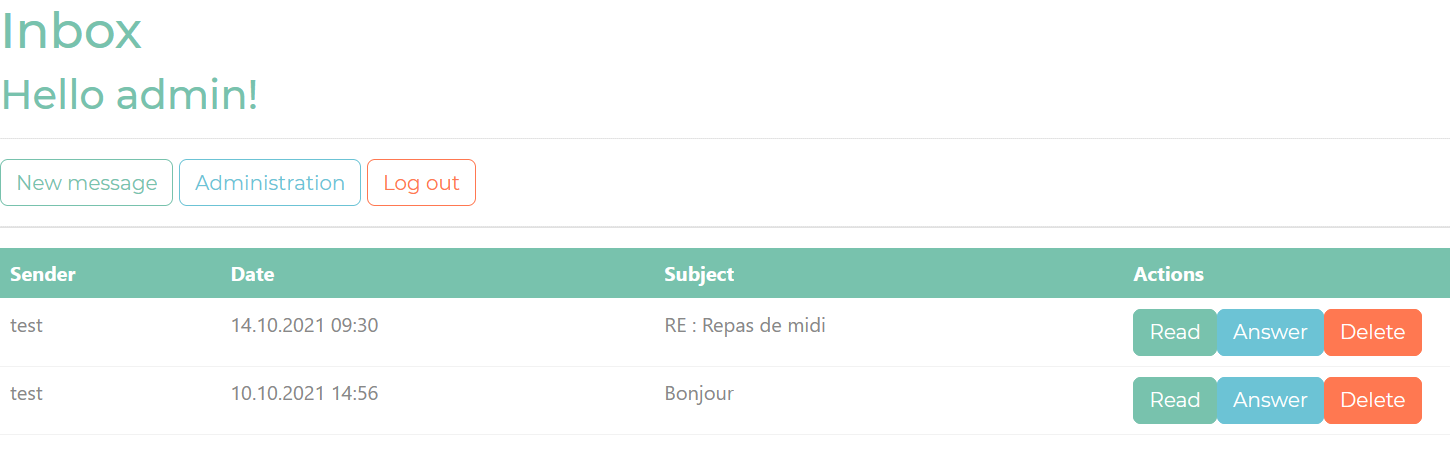
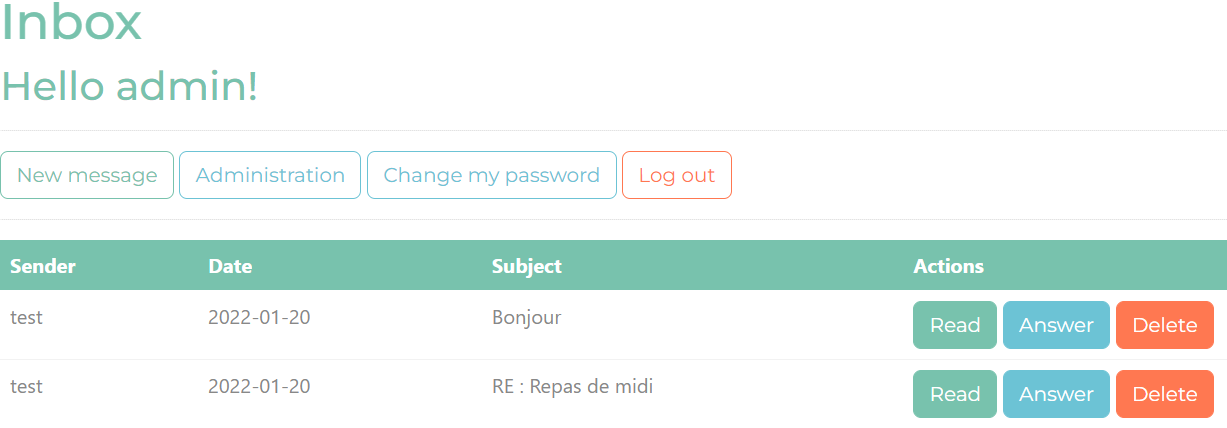
Update Readme projet 2

diff --git a/README.md b/README.md
@@ -1,12 +1,17 @@
-# STI - Projet 1
+# STI - Projet 2
+
+> Auteurs : Delphine Scherler et Doran Kayoumi
+>
+> Date : 20.01.2022
 
 Pour exécuter notre projet :
 
 1. Cloner le dossier localement sur votre ordinateur.
 2. Démarrer Docker.
 3. Ouvrir une fenêtre Git Bash à la racine du projet.
-4. Lancer le script suivant dans l’invit Bash : ./launch.sh
+4. Lancer le script suivant dans l’invit Bash : ./docker/install.sh (à faire que la première fois)
 5. Accéder à http://localhost:9396/ depuis un navigateur.
+6. À tout moment vous pouvez arrêter les containers avec `docker-compose stop` et les redémarrer avec `docker-compose up -d`
 
 ## Login
 
@@ -27,9 +32,15 @@ Vous pouvez utiliser l'un d'eux pour vous connecter.
 
 ## Inbox
 
-Dès que vous êtes connecté vous allez arriver sur la page principale de la messagerie :
+Dès que vous êtes connecté vous allez arriver sur la page principale de la messagerie.
 
-<img src="images/inbox.PNG" alt="inbox" />
+Vue par un administrateur :
+
+<img src="images/inbox.PNG" alt="inbox" style="zoom:80%;" />
+
+Vue par un utilisateur :
+
+<img src="images/inbox_2.PNG" alt="inbox_2" style="zoom:80%;" />
 
 Pour la démo, la base de données fournie dans GitHub contient quelques mails.
 
@@ -37,55 +48,55 @@ Depuis cette page vous pouvez :
 
 - Lire, répondre ou supprimer des messages.
 - Ecrire un nouveau message.
-- Accéder à la page d'administration.
+- Changer votre mot de passe.
+- Accéder à la page d'administration, si vous êtes administrateur.
 - Vous déconnecter.
 
-## New message
+## New message / Answer
 
 Voici la page pour écrire un nouveau message :
 
-<img src="images/new_msg.PNG" alt="new_msg" width="250" />
+<img src="images/new_msg.PNG" alt="new_msg" width="350" />
 
 ## Read
 
 Cette page permet de lire le corps du message. Mais également de répondre ou de supprimer celui-ci.
 
-<img src="images/read.PNG" alt="read" width="250" />
+<img src="images/read.PNG" alt="read" width="350" />
+
+## Change my password
+
+Cette page permet de changer son mot de passe.
+
+<img src="images/password.PNG" alt="password" width="350" />
 
 ## Administration
 
-Cette page permet pour un utilisateur de :
+Cette page est réservée à l'administrateur, elle permet de :
 
-- modifier son mot de passe
-
-Pour un administrateur de (comme ci-dessous) :
-
-- modifier son mot de passe
 - ajouter de nouveaux utilisateurs
-- modifier un utilisateur
+- modifier un utilisateur (mot de passe, rôle, validité)
 - supprimer un utilisateur
 
-<img src="images/admin.PNG" alt="admin" width="250" />
+<img src="images/admin.PNG" alt="admin" width="350" />
 
 ## Add user
 
 Cette page permet d'ajouter un utilisateur à la base de données.
 
-<img src="images/add_user.PNG" alt="add_user" width="250" />
+<img src="images/add_user.PNG" alt="add_user" width="350" />
 
-## Modify user
+## Modify role of user
 
-Cette page permet de :
+Cette page permet de modifier le rôle d'un utilisateur.
 
-- Afficher les détails d'un utilisateur
-- Modifier le mot de passe d'un utilisateur
-- Modifier la validité d'un utilisateur
-- Modifier le rôle d'un utilisateur
+<img src="images/modify_role.PNG" alt="modify_role" width="350" />
 
-<img src="images/modify_user.PNG" alt="modify_user" width="500" />
+## Modify validity of user
 
-## Delete user
+Cette page permet de modifier la validité d'un utilisateur.
 
-Cette page permet de choisir un utilisateur et de le supprimer.
+<img src="images/modify_val.PNG" alt="modify_val" width="350" />
 
-<img src="images/delete_user.PNG" alt="delete_user" width="250" />
+(À savoir qu'un comportement bizarre a parfois été observé sur cette page qui nous redirigeais sans raison sur l'Inbox.)
+
